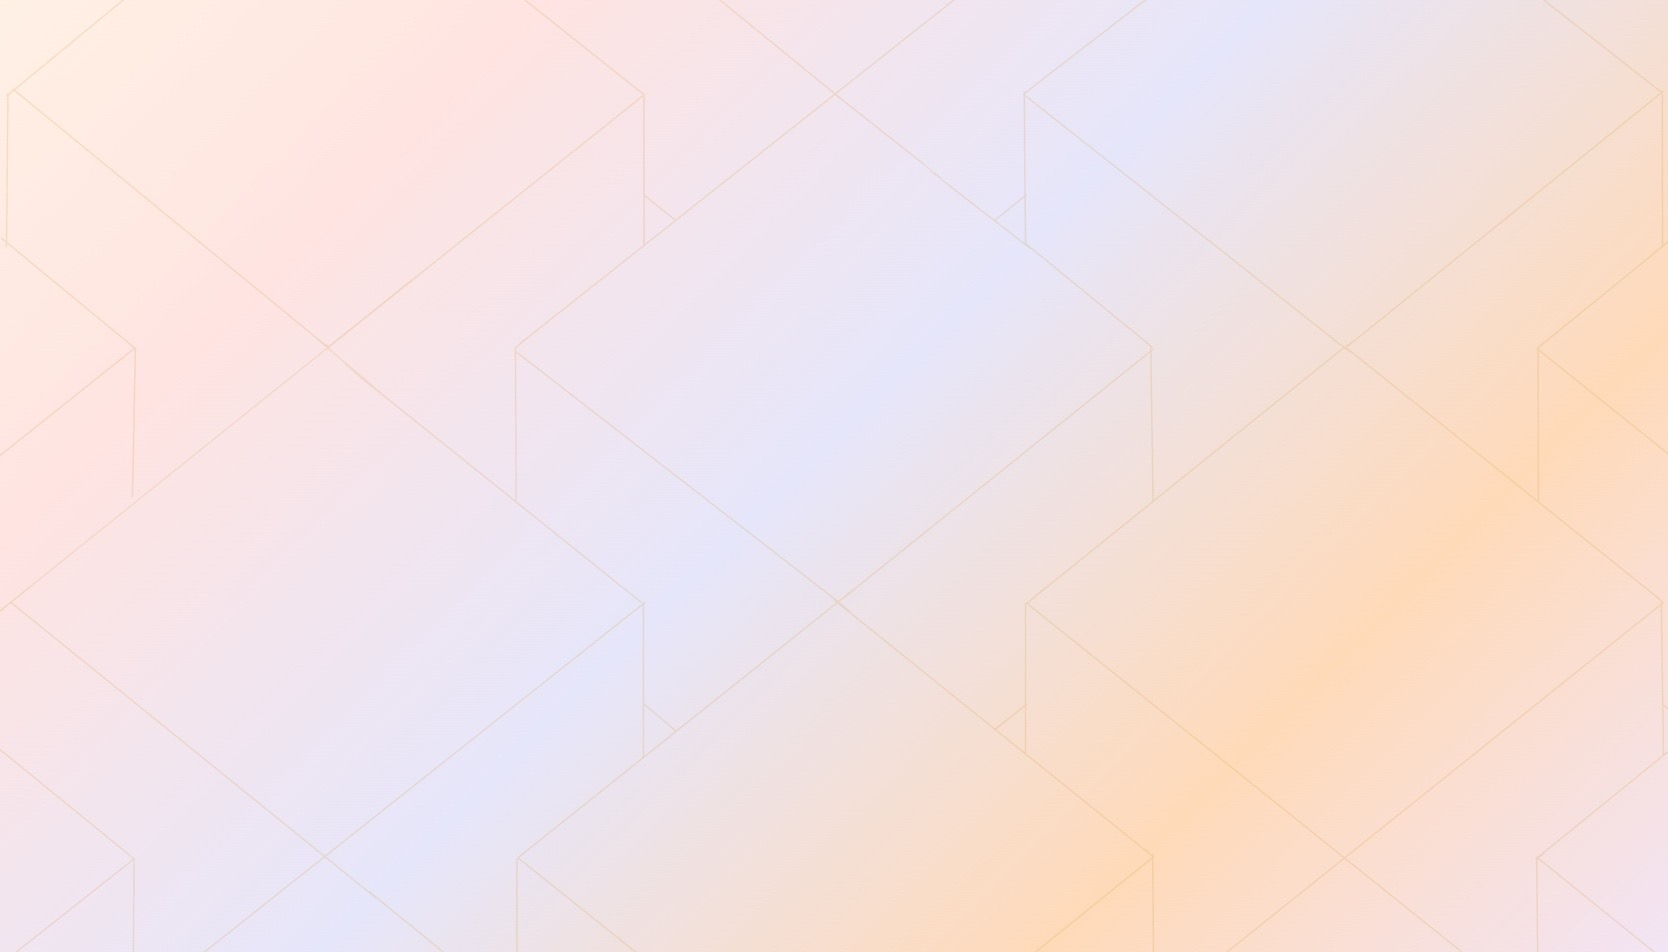
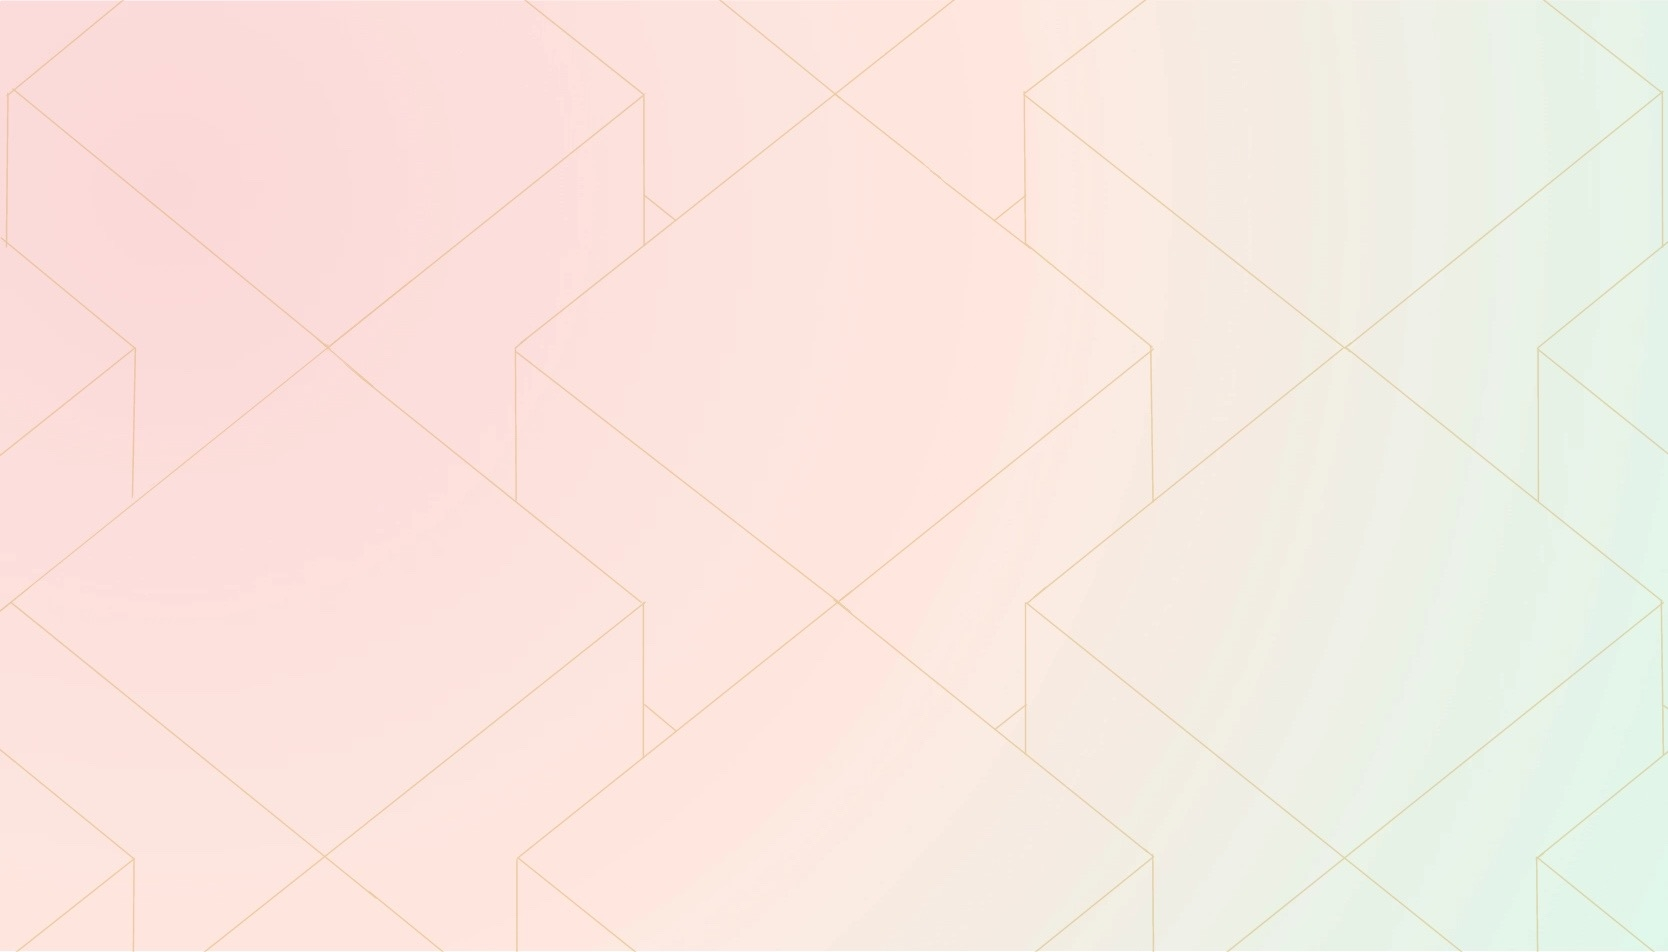
watermelon

diff --git a/styles/themes/may-theme.css b/styles/themes/may-theme.css
@@ -1,23 +1,22 @@
 :root.summer-theme {
   --header-gradient: linear-gradient(
-    to bottom,
-    rgba(255, 218, 185, 0.9) 0%,
-    rgba(255, 218, 185, 0.5) 50%,
-    rgba(221, 214, 243, 0.9) 100%
+    to right,
+    #facac7 0%,
+    #fcdbc6 50%,
+    #caf7e6 100%
   );
-  
   --background-image: url(../images/summer-background.png);
-  --main-background-color: #fff7f0;
-  --block-background-color: #ffeddb;
-  --staff-card-color: #fedcbe;
-  --text-color: #8B6B5A;
-  --button-color: #E8A87C;
-  --dollar-color: #F0D5C0;
-  --accent-color: #C38D9E;
-  --card-background-color: #FFF5EE;
+  --main-background-color: #d9f2da;
+  --block-background-color: rgba(255, 255, 255, 0.75);
+  --staff-card-color: #FFE5E0;
+  --text-color: #9B6B6B;
+  --button-color: #FF9A8B;
+  --dollar-color: #F0D4CF;
+  --accent-color: #88D4B6;
+  --card-background-color: #FFFFFF;
   --title-color: #ffffff;
-  --popover-menu-background-color: #FFF8F0;
-  --modal-background-color: #FFF5F0;
-  --button-theme-hover-color: rgba(232, 168, 124, 0.7);
-  --subsection-title-background-color: #DDBEA9;
+  --popover-menu-background-color: #FFFCF8;
+  --modal-background-color: #FFF8F5;
+  --button-theme-hover-color: rgba(255, 154, 139, 0.7);
+  --subsection-title-background-color: #C5E0D4;
 }
